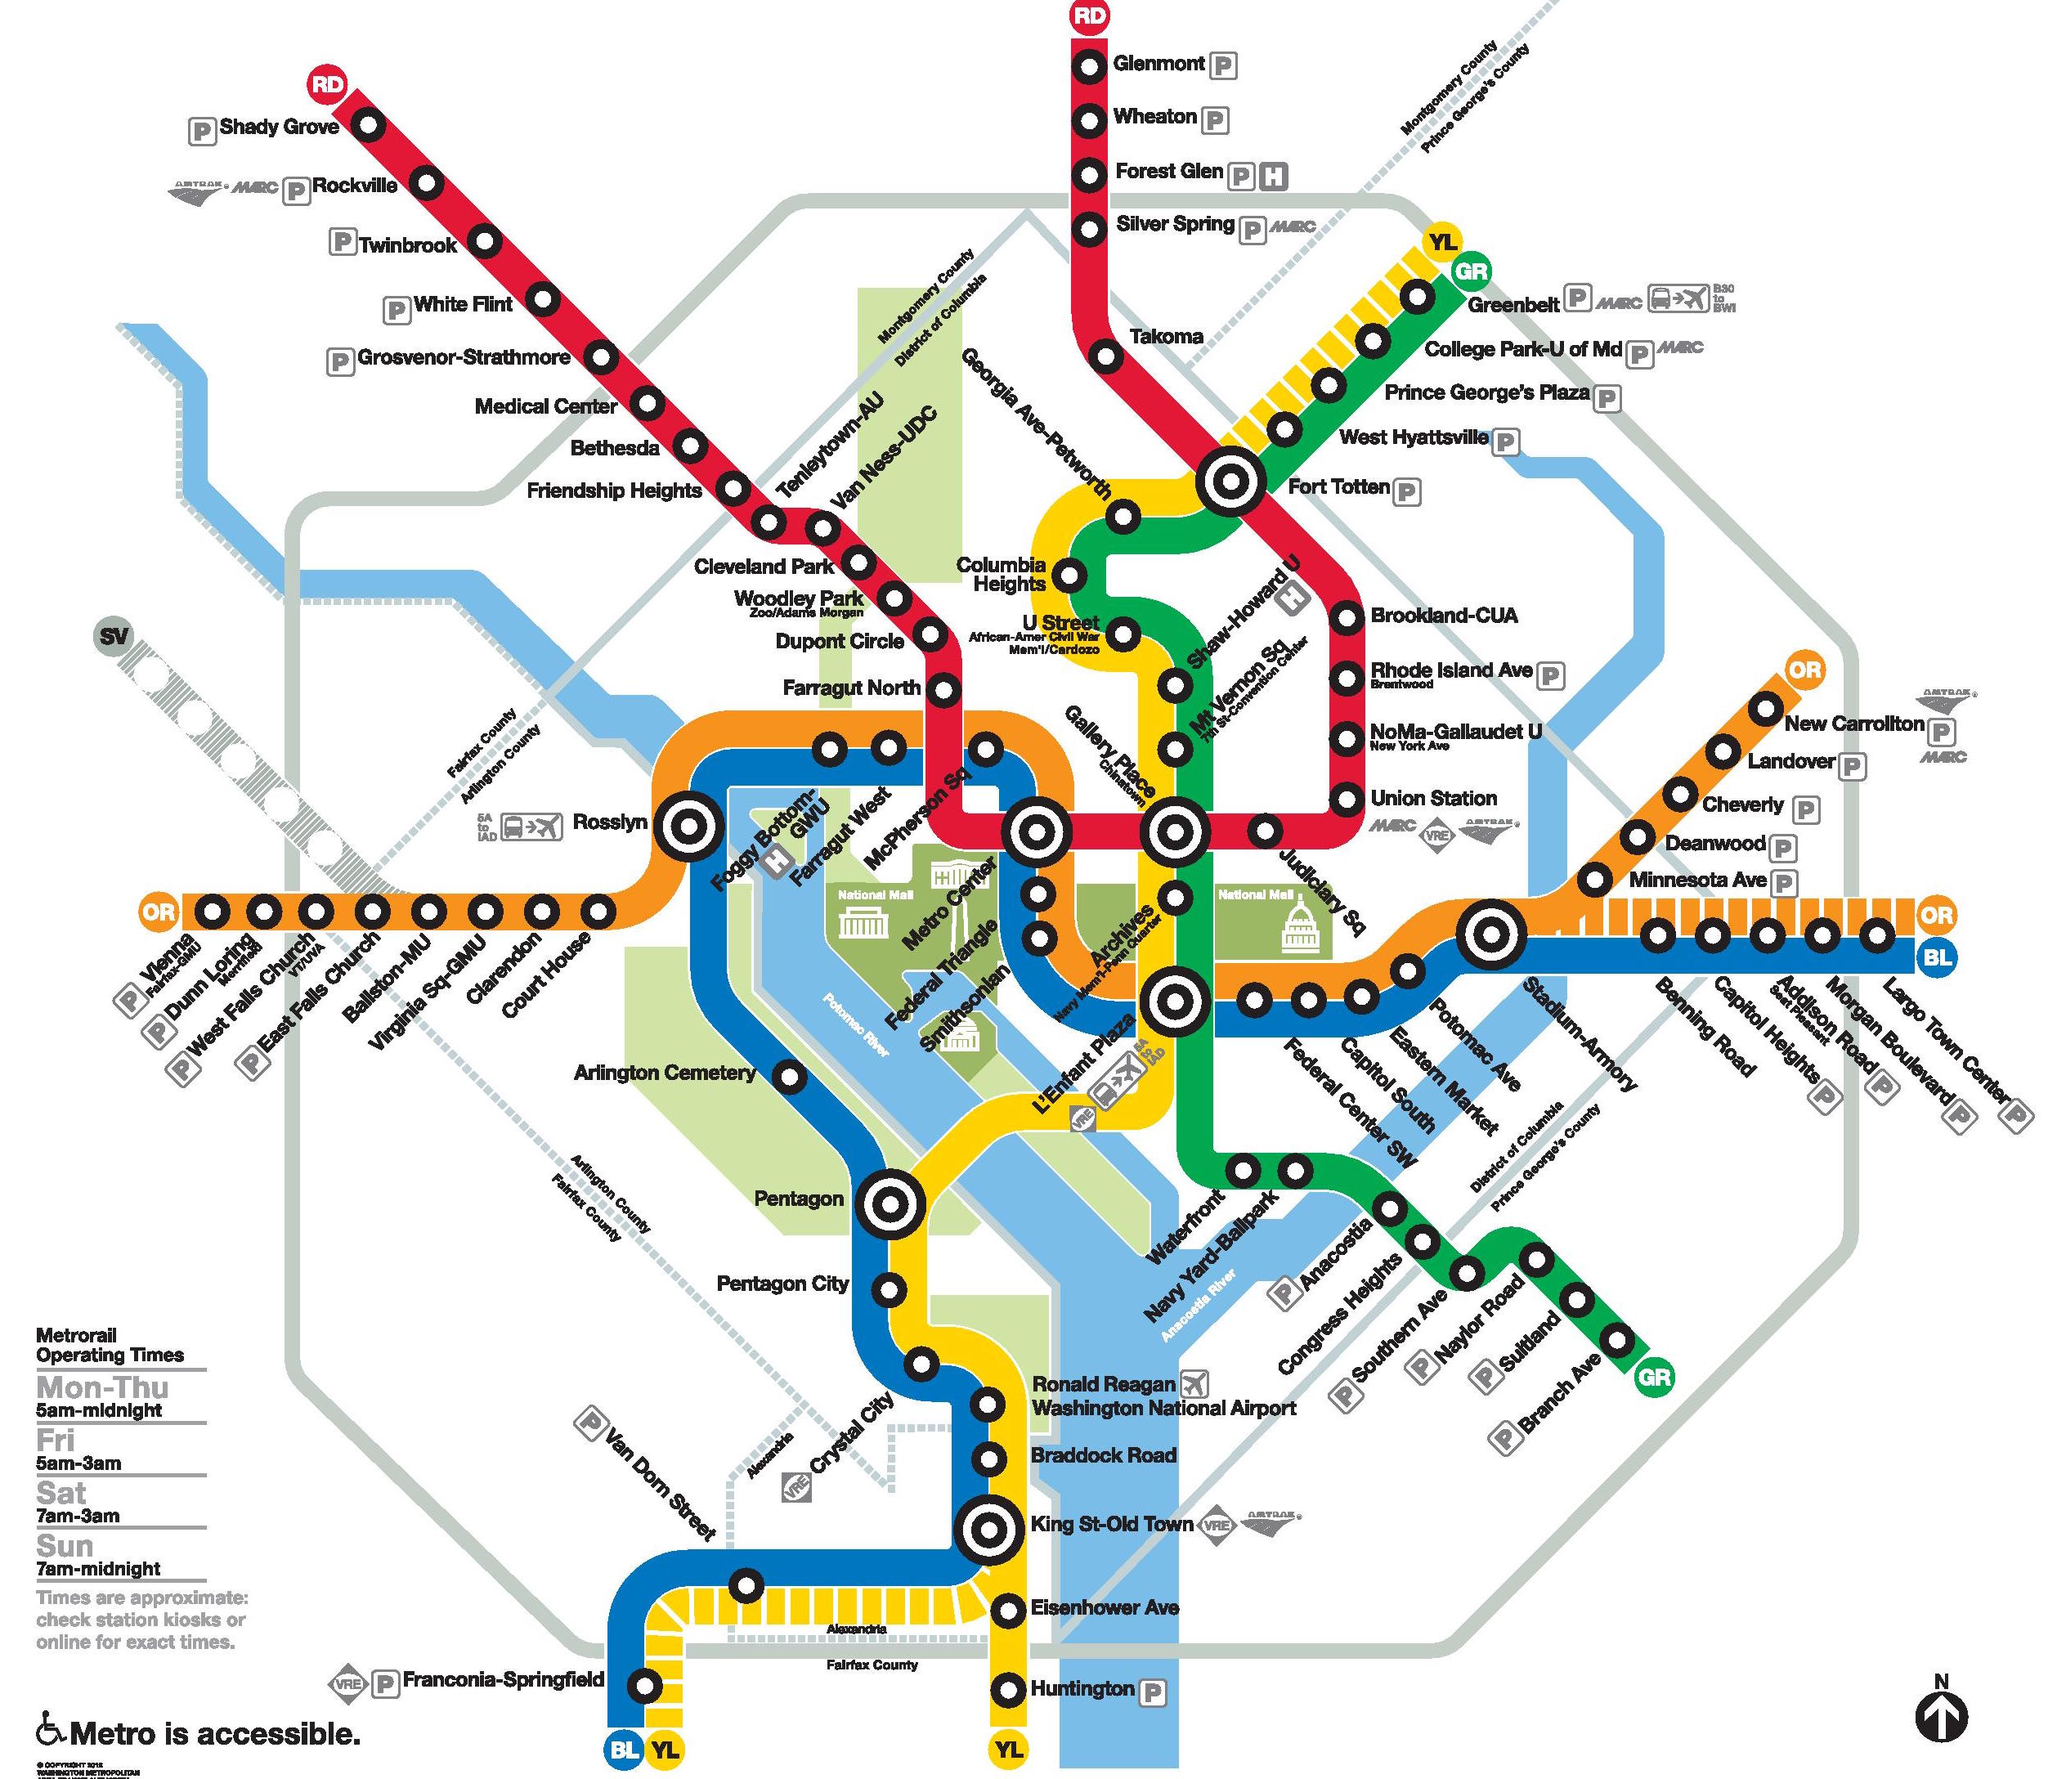
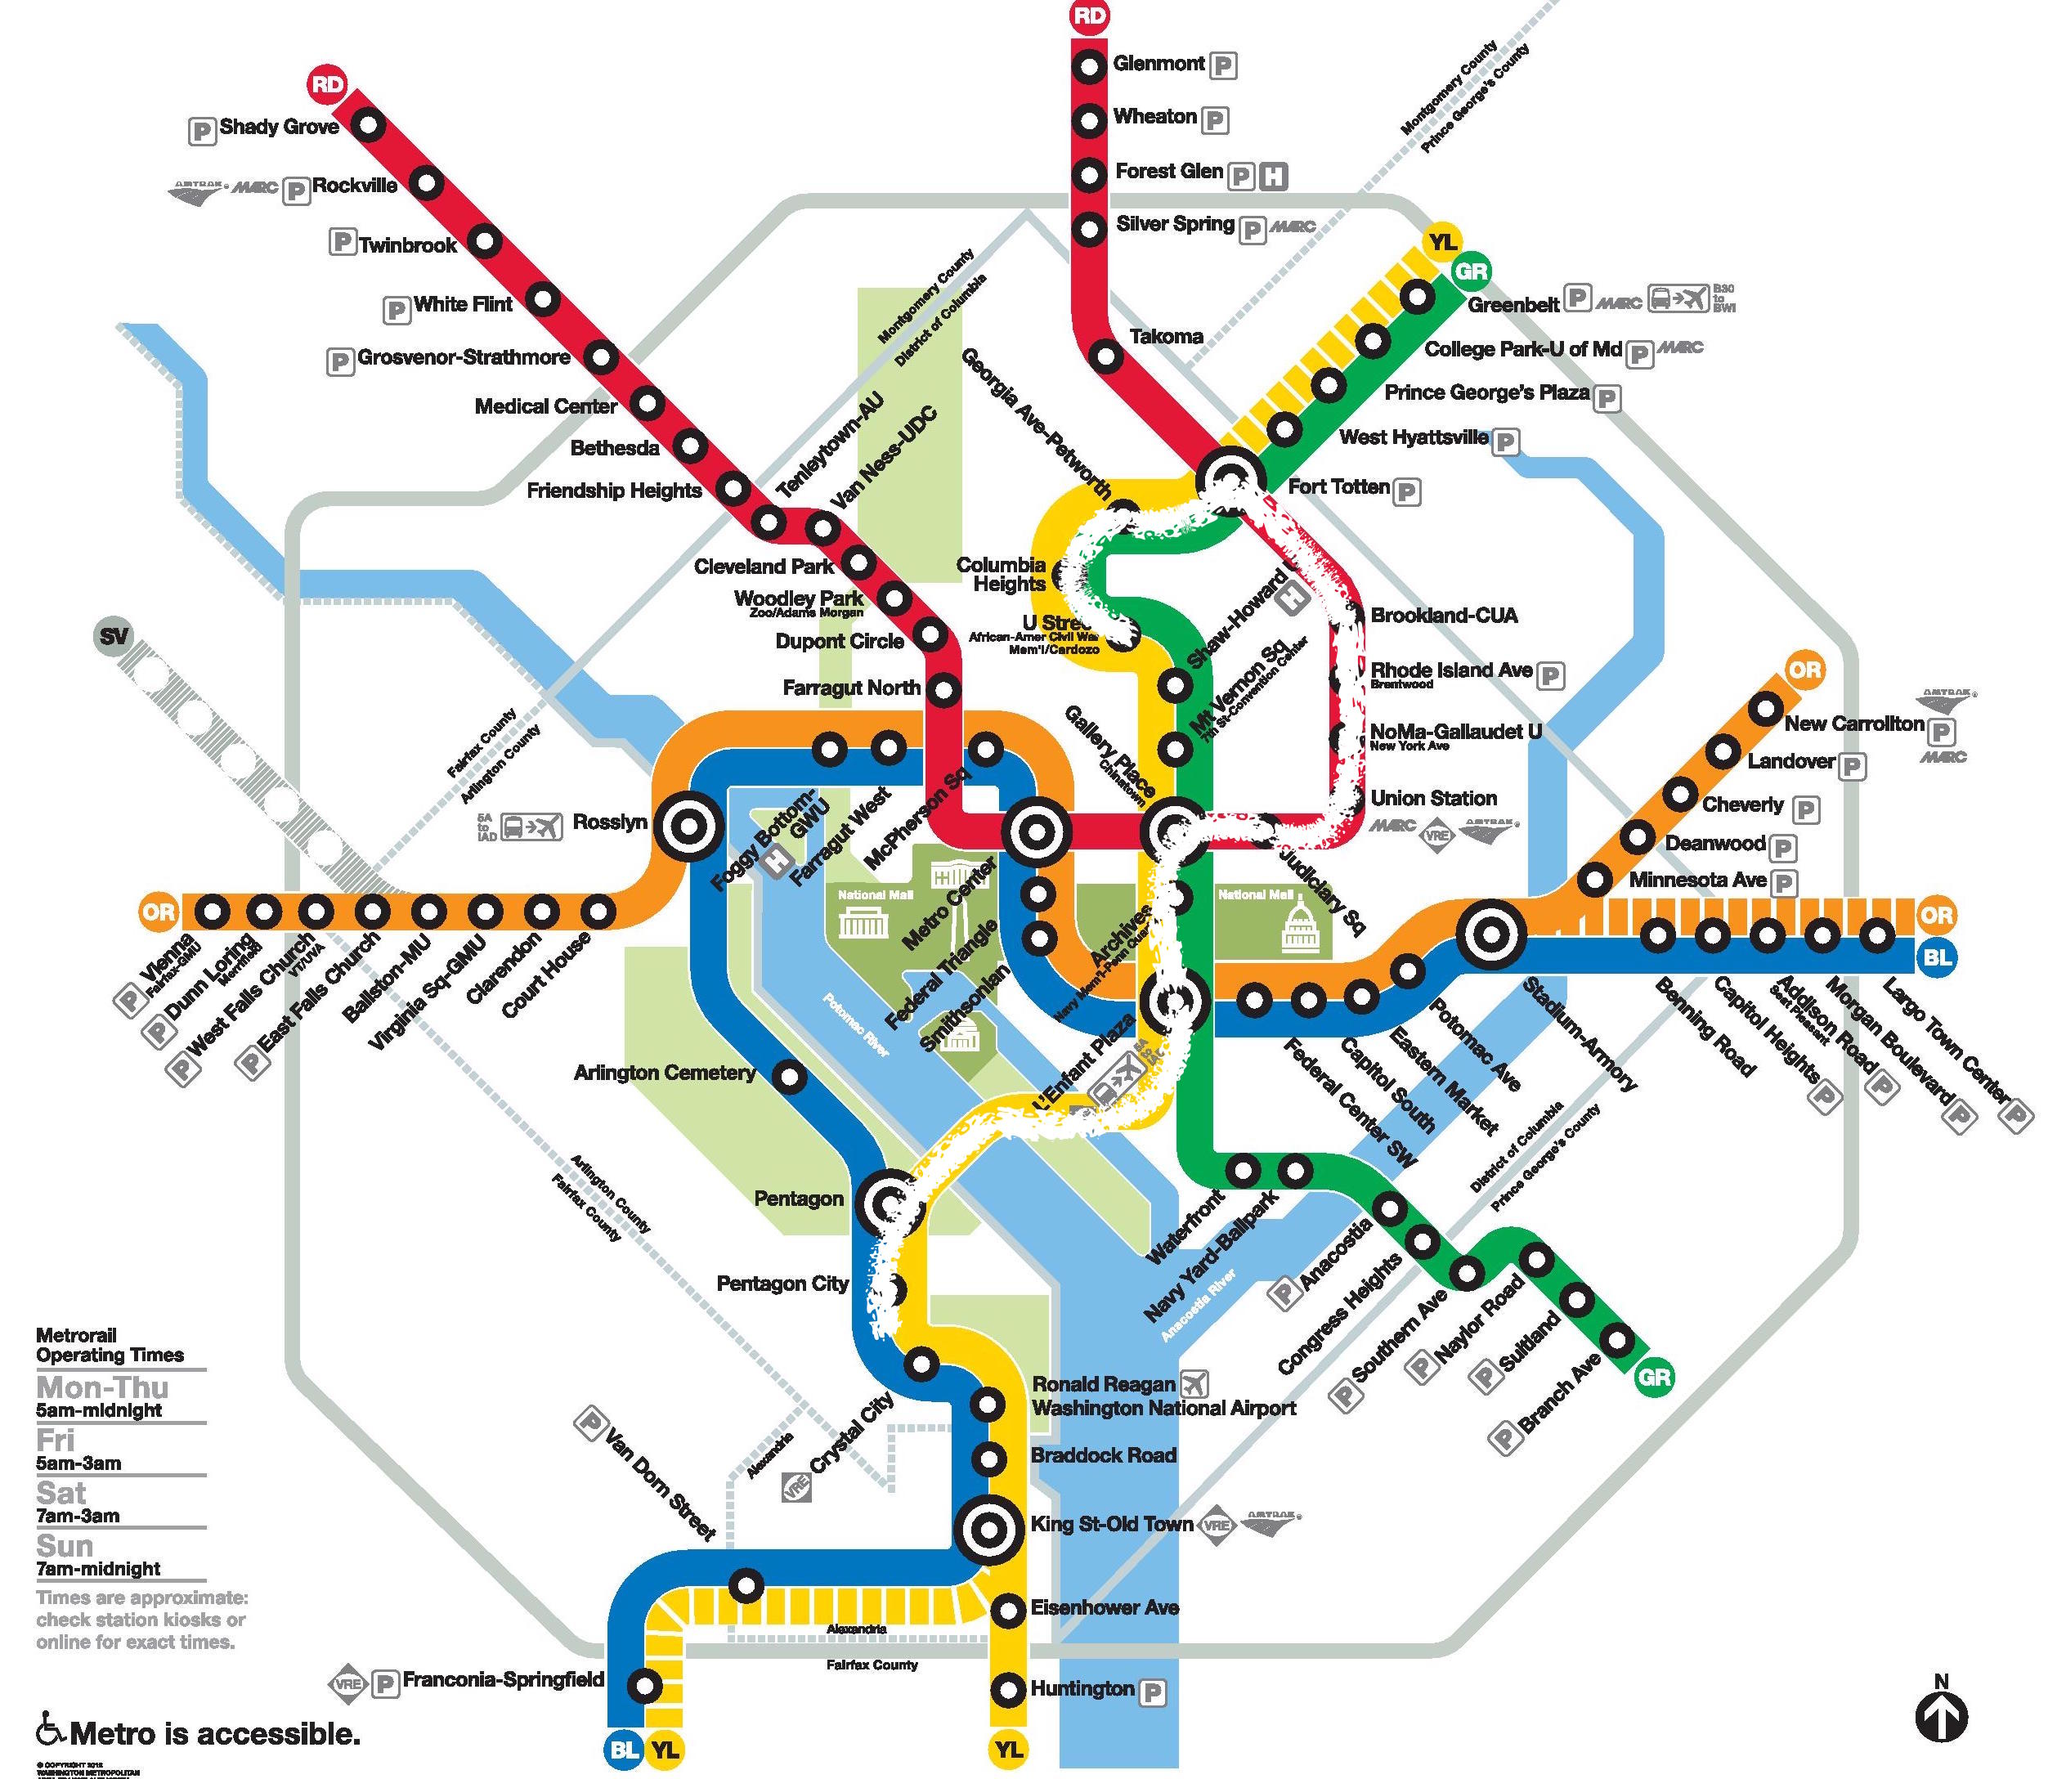
route diagrams

Changed region(s): [[0.4013, 0.3438, 0.6791, 0.75], [0.4939, 0.25, 0.6482, 0.375]]

diff --git a/README.md b/README.md
@@ -36,3 +36,7 @@ Need:
 
 To Do:
 - 
+
+Notes:
+
+I never considered route3. Taking the red line from Gallery Pl to Metro Center to catch the Blue line is probably faster than going all the way to L'Enfant Plaza
